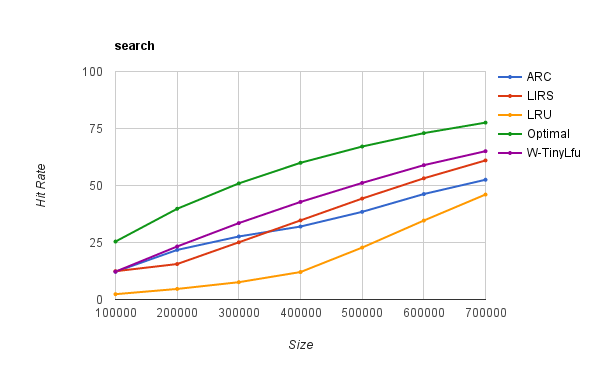
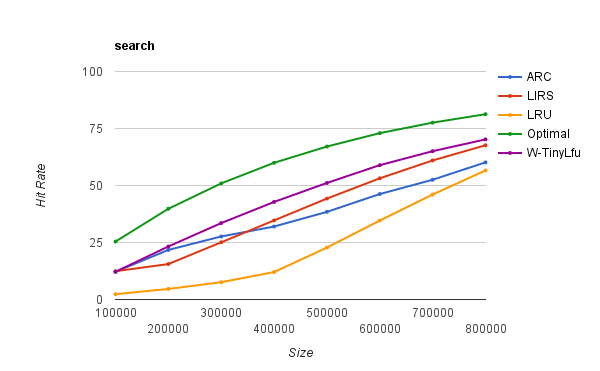
Add HighScalability article, plus minor tweaks

diff --git a/caffeine/src/main/java/com/github/benmanes/caffeine/cache/UnboundedLocalCache.java b/caffeine/src/main/java/com/github/benmanes/caffeine/cache/UnboundedLocalCache.java
@@ -496,19 +496,19 @@ final class UnboundedLocalCache<K, V> implements LocalCache<K, V> {
   @Override
   public Set<K> keySet() {
     final Set<K> ks = keySet;
-    return (ks == null) ? (keySet = new KeySetView<K>(this)) : ks;
+    return (ks == null) ? (keySet = new KeySetView<>(this)) : ks;
   }
 
   @Override
   public Collection<V> values() {
     final Collection<V> vs = values;
-    return (vs == null) ? (values = new ValuesView(this)) : vs;
+    return (vs == null) ? (values = new ValuesView<>(this)) : vs;
   }
 
   @Override
   public Set<Entry<K, V>> entrySet() {
     final Set<Entry<K, V>> es = entrySet;
-    return (es == null) ? (entrySet = new EntrySetView(this)) : es;
+    return (es == null) ? (entrySet = new EntrySetView<>(this)) : es;
   }
 
   /** An adapter to safely externalize the keys. */
@@ -586,7 +586,7 @@ final class UnboundedLocalCache<K, V> implements LocalCache<K, V> {
   }
 
   /** An adapter to safely externalize the values. */
-  final class ValuesView extends AbstractCollection<V> {
+  static final class ValuesView<K, V> extends AbstractCollection<V> {
     final UnboundedLocalCache<K, V> cache;
 
     ValuesView(UnboundedLocalCache<K, V> cache) {
@@ -621,7 +621,7 @@ final class UnboundedLocalCache<K, V> implements LocalCache<K, V> {
 
     @Override
     public Iterator<V> iterator() {
-      return new ValuesIterator<K, V>(cache);
+      return new ValuesIterator<>(cache);
     }
 
     @Override
@@ -661,7 +661,7 @@ final class UnboundedLocalCache<K, V> implements LocalCache<K, V> {
   }
 
   /** An adapter to safely externalize the entries. */
-  final class EntrySetView extends AbstractSet<Entry<K, V>> {
+  static final class EntrySetView<K, V> extends AbstractSet<Entry<K, V>> {
     final UnboundedLocalCache<K, V> cache;
 
     EntrySetView(UnboundedLocalCache<K, V> cache) {
@@ -704,7 +704,7 @@ final class UnboundedLocalCache<K, V> implements LocalCache<K, V> {
 
     @Override
     public Iterator<Entry<K, V>> iterator() {
-      return new EntryIterator<K, V>(cache);
+      return new EntryIterator<>(cache);
     }
 
     @Override
@@ -732,7 +732,7 @@ final class UnboundedLocalCache<K, V> implements LocalCache<K, V> {
     @Override
     public Entry<K, V> next() {
       entry = iterator.next();
-      return new WriteThroughEntry<K, V>(cache, entry.getKey(), entry.getValue());
+      return new WriteThroughEntry<>(cache, entry.getKey(), entry.getValue());
     }
 
     @Override
@@ -869,14 +869,9 @@ final class UnboundedLocalCache<K, V> implements LocalCache<K, V> {
 
     Policy<K, V> policy;
 
-    UnboundedLocalAsyncLoadingCache(Caffeine<K, V> builder, CacheLoader<? super K, V> loader) {
-      super(makeCache(builder), loader);
-    }
-
     @SuppressWarnings("unchecked")
-    static <K, V> UnboundedLocalCache<K, CompletableFuture<V>> makeCache(Caffeine<K, V> builder) {
-      return new UnboundedLocalCache<K, CompletableFuture<V>>(
-          (Caffeine<K, CompletableFuture<V>>) builder, true);
+    UnboundedLocalAsyncLoadingCache(Caffeine<K, V> builder, CacheLoader<? super K, V> loader) {
+      super(new UnboundedLocalCache<>((Caffeine<K, CompletableFuture<V>>) builder, true), loader);
     }
 
     @Override

diff --git a/caffeine/src/main/java/com/github/benmanes/caffeine/cache/CaffeineSpec.java b/caffeine/src/main/java/com/github/benmanes/caffeine/cache/CaffeineSpec.java
@@ -56,13 +56,13 @@ import com.github.benmanes.caffeine.cache.Caffeine.Strength;
  * also illegal to use the following pairs of keys in a single value:
  * <ul>
  *   <li>{@code maximumSize} and {@code maximumWeight}
- *   <li>{@code softValues} and {@code weakValues}
+ *   <li>{@code weakValues} and {@code softValues}
  * </ul>
  * <p>
  * {@code CaffeineSpec} does not support configuring {@code Caffeine} methods with non-value
  * parameters. These must be configured in code.
  * <p>
- * A new {@code Caffeine} can be instantiated from a {@code CaffeineSpec} using
+ * A new {@code Caffeine} builder can be instantiated from a {@code CaffeineSpec} using
  * {@link Caffeine#from(CaffeineSpec)} or {@link Caffeine#from(String)}.
  *
  * @author ***REDACTED-EMAIL*** (Ben Manes)

diff --git a/caffeine/src/main/java/com/github/benmanes/caffeine/cache/LocalAsyncLoadingCache.java b/caffeine/src/main/java/com/github/benmanes/caffeine/cache/LocalAsyncLoadingCache.java
@@ -189,8 +189,7 @@ abstract class LocalAsyncLoadingCache<C extends LocalCache<K, CompletableFuture<
       return CompletableFuture.completedFuture(Collections.emptyMap());
     }
     @SuppressWarnings("rawtypes")
-    CompletableFuture<?>[] array = futures.values().toArray(
-        new CompletableFuture[futures.size()]);
+    CompletableFuture<?>[] array = futures.values().toArray(new CompletableFuture[0]);
     return CompletableFuture.allOf(array).thenApply(ignored -> {
       Map<K, V> result = new HashMap<>(futures.size());
       for (Entry<K, CompletableFuture<V>> entry : futures.entrySet()) {

diff --git a/jcache/src/main/java/com/github/benmanes/caffeine/jcache/copy/AbstractCopier.java b/jcache/src/main/java/com/github/benmanes/caffeine/jcache/copy/AbstractCopier.java
@@ -84,7 +84,7 @@ public abstract class AbstractCopier<A> implements Copier {
     return JAVA_IMMUTABLE;
   }
 
-  /** @return the set of Java native classes that are immutable. */
+  /** @return the set of Java native classes that are deeply copied. */
   public static Map<Class<?>, Function<Object, Object>> javaDeepCopyStrategies() {
     return JAVA_DEEP_COPY;
   }

diff --git a/jcache/src/main/java/com/github/benmanes/caffeine/jcache/event/EventDispatcher.java b/jcache/src/main/java/com/github/benmanes/caffeine/jcache/event/EventDispatcher.java
@@ -193,7 +193,7 @@ public final class EventDispatcher<K, V> {
       return;
     }
     try {
-      CompletableFuture.allOf(futures.toArray(new CompletableFuture<?>[futures.size()])).join();
+      CompletableFuture.allOf(futures.toArray(new CompletableFuture<?>[0])).join();
     } catch (CompletionException e) {
       logger.log(Level.WARNING, null, e);
     } finally {

diff --git a/README.md b/README.md
@@ -10,8 +10,8 @@ the latest release.
 
 ### Cache
 
-Caffeine provides an in-memory cache using a Google Guava inspired API. The [improvements][benchmarks]
-draw on our experience designing [Guava's cache][guava-cache] and [ConcurrentLinkedHashMap][clhm].
+Caffeine provides an in-memory cache using a Google Guava inspired API. The improvements draw on our
+experience designing [Guava's cache][guava-cache] and [ConcurrentLinkedHashMap][clhm].
 
 ```java
 LoadingCache<Key, Graph> graphs = Caffeine.newBuilder()
@@ -44,6 +44,8 @@ In addition, Caffeine offers the following extensions:
 
  * A short look at what Caffeine brings to your applications.
    * [Add a Boost of Caffeine to Your Java][add-a-boost] at [VOXXED][voxxed]
+ * A in-depth description of Caffeine's architecture.
+   * [Design of a Modern Cache][modern-cache] at [HighScalability][HighScalability]
  * Caffeine is presented as part of a research paper evaluating its novel eviction policy.
    * [TinyLFU: A Highly Efficient Cache Admission Policy][tinylfu] by Gil Einziger, Roy Friedman, Ben Manes
 
@@ -93,6 +95,8 @@ Snapshots of the development version are available in
 [tinylfu]: http://arxiv.org/pdf/1512.00727.pdf
 [add-a-boost]: https://www.voxxed.com/blog/2015/12/add-a-boost-of-caffeine-to-your-java
 [voxxed]: https://www.voxxed.com
+[modern-cache]: http://highscalability.com/blog/2016/1/25/design-of-a-modern-cache.html
+[highscalability]: http://highscalability.com
 [spring]: https://jira.spring.io/browse/SPR-13690
 [postgres]: https://www.mail-archive.com/***REDACTED-EMAIL***/msg274326.html
 [go-tinylfu]: https://github.com/dgryski/go-tinylfu